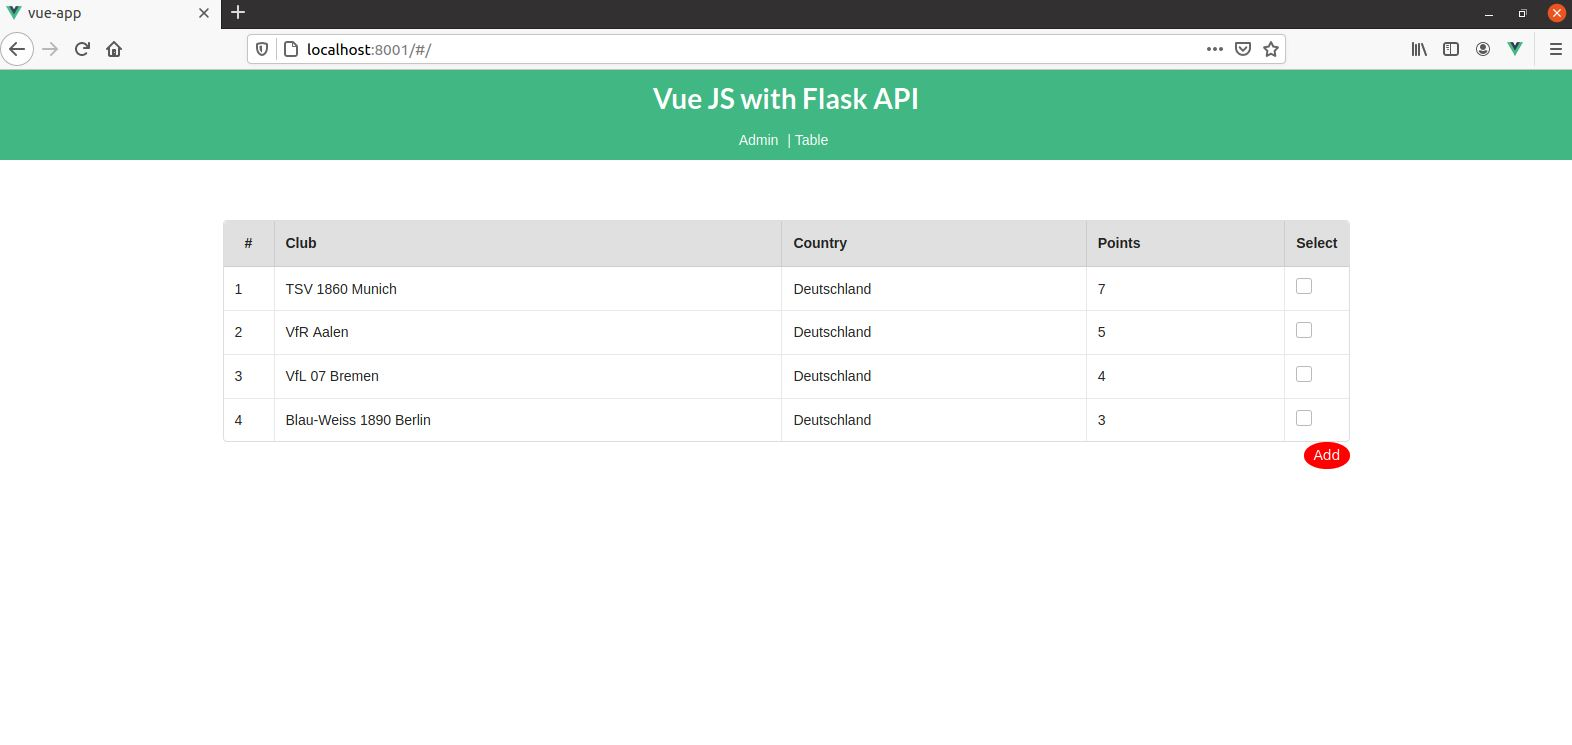
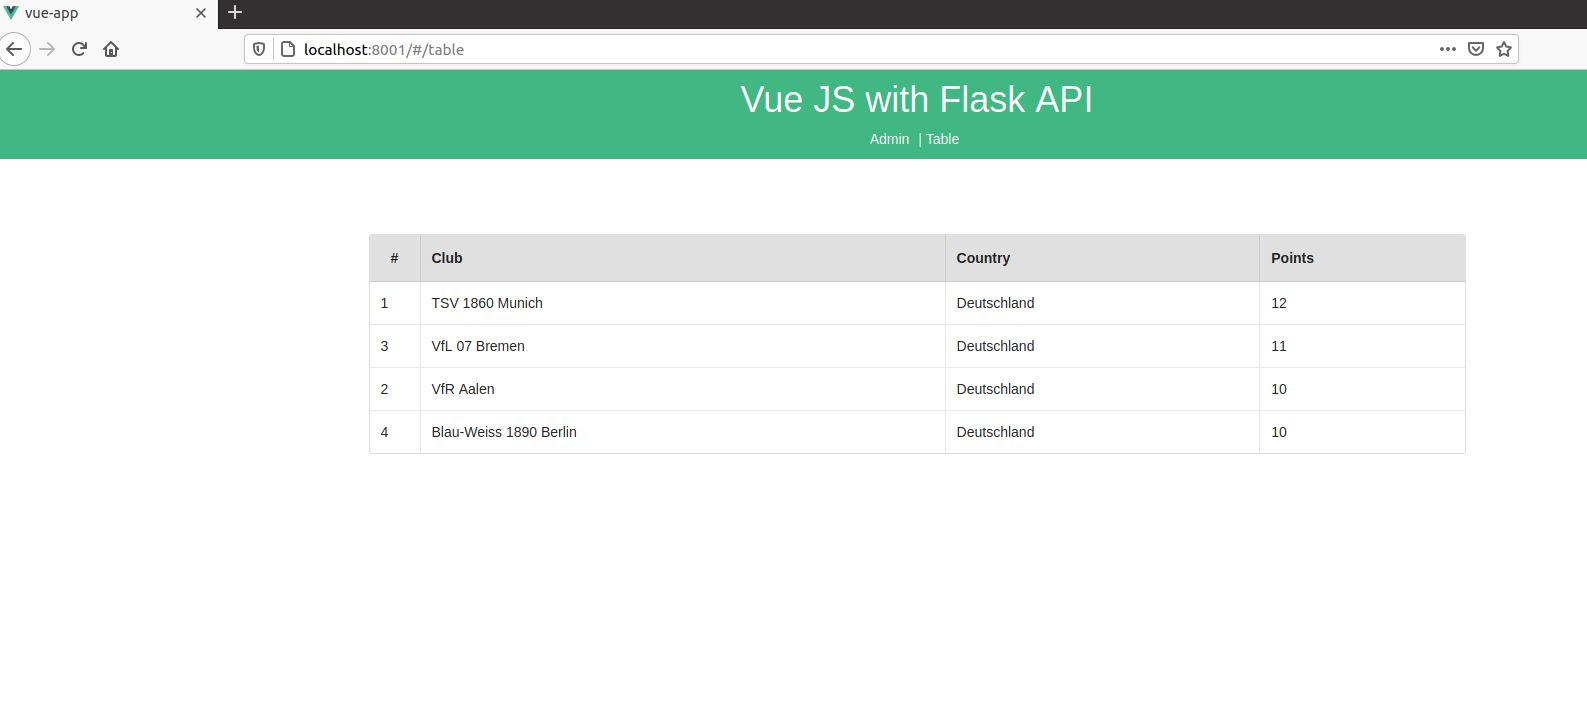
Select and add

diff --git a/vue-app/src/views/Admin.vue b/vue-app/src/views/Admin.vue
@@ -1,33 +1,173 @@
 <template>
   <div class="ui main container">
-      <div class="customer-list">
-        <FootballList v-for="club in clubs" :key="club.id" :club="club" />
-      </div>
+
+    <modal v-if="showModal"> 
+      <h3 slot="header" class="modal-title" style="text-align: center;">
+        Mark the winner
+      </h3>
       
+      <div slot="body">
+        <table class="ui celled table">
+        <thead>
+          <tr>
+            <th style="text-align: center;">Club</th>
+            <th>Winner</th>
+          </tr>
+        </thead>
+
+        <tbody>
+         
+            <tr v-for="rows in winner" :key="rows.value"> 
+            <td style="text-align: center;">{{rows.club}}</td>  
+            <td>
+                <label>
+                  <input type="checkbox" v-model="winnerSelect" :value="rows.id" :disabled="winnerSelect.length > 0 && winner.indexOf(rows.value) === -1" number
+                  @change="checkWinner(rows.id)"  > 
+
+                </label>
+            </td>
+          </tr>
+        </tbody>
+      </table>
+    
+      </div>
+
+      <div slot="footer">
+      <button type="button" class="btn btn-outline-info" @click="closeModal()"> Close </button>
+      <button type="button" class="btn btn-primary" data-dismiss="modal" @click="submitAndClose()">
+        Submit
+      </button>
+      </div>
+    </modal>
+     <FlashMessage></FlashMessage>
+      <div class="customer-list">
+      <table class="ui celled table">
+        <thead>
+          <tr>
+            <th style="width: 50px; text-align: center;">#</th>
+            <th style="text-align: center;">Name of the Club</th>
+            <th>Choose</th>
+          </tr>
+        </thead>
+
+        <tbody>
+
+          <tr v-for="(item,index) in clubs.clubs" :key="`item-${index}`">
+            <th scope="row"> {{ item.id}}</th>  
+            <td style="text-align: center;">{{ item.club}}</td>  
+            <td><label>
+                <input type="checkbox" v-model="selected" :value="item" @change="checkSelection()"> 
+            </label></td>
+          </tr>
+        </tbody>
+      </table>
+      </div>
     </div>
 </template>
 
 <script>
 
-import FootballList from '@/components/FootballList.vue';
+
+import Modal from '@/components/Modal.vue';
 import axios from 'axios'
 
 export default {
   name: 'App',
   components: { 
-    FootballList
+    Modal
   },
   data(){
     return {
-      clubs:[{
-      }]
+      clubs:[{}],
+      selected: [],
+      winner:[],
+      winnerSelect:[],
+      showModal: false 
     }
+  },
+  
+  methods: {
+    
+    checkWinner:function(id){
+      this.setWinner(id);
+    },
+    checkSelection: function() {
+      
+      //only when the second item is checked
+      if(this.selected.length == 2)
+      {
+        this.addNew();
+        this.openModal();  
+      }
+    },
+    addNew: function () {
+      var result=[];
+      this.selected.forEach(function (arrayItem) {
+                      result.push({id: arrayItem.id, club: arrayItem.club, point:1});
+                    
+          });
+        this.winner = result;
+    },
+    setWinner(id){
+      this.winner.forEach(function(array)
+          {
+            if (id == array.id)
+              array.point = 3;
+            else
+              array.point = 0;
+          }
+      );
+    },
+    setEquals(){
+      this.winner.forEach(function(array) { array.point = 1;});
+    },
+    openModal() { 
+        this.showModal = true; 
+        this.setEquals();
+    },
+    closeModal() {
+        this.showModal = false;
+        this.winner=[];
+        this.selected=[];
+        this.winnerSelect=[];
+      },
+      //create a Json Objects as API is waiting
+    convertObject(){
+      var obj={}
+      this.winner.forEach(function (array,i){
+        i=i+1;
+        obj["id"+i]=array.id;
+        obj["point"+i]=array.point;
+      });
+      return obj;
+    },
+
+    submitAndClose() {
+      
+      this.addClubsPoints(this.convertObject());
+    },
+    getClubs(){
+      axios.get('http://localhost:8000/clubs')
+    .then(res => this.clubs = res.data)
+    .catch(err => console.log(err));
+    },
+    //add points to Clubs
+    addClubsPoints(obj){
+       axios.post('http://localhost:8000/clubs',obj)
+      .then(() => {
+          this.closeModal();
+          this.flashMessage.success({title: 'Success',message: 'The points have been added!'});
+          this.getClubs();
+        })
+        .catch((error) => {
+          this.flashMessage.error({ title: 'Error',message: error});
+          console.log(error);
+        });
+    },
 
   },
   created(){
-    axios.get('http://localhost:8000/clubs')
-    .then(res => this.clubs = res.data)
-    .catch(err => console.log(err));
+    this.getClubs();
   } 
 
 }
@@ -53,13 +193,4 @@ thead tr th {
 .ui.inverted.dimmer {
   background-color: rgba(255, 255, 255, 0) !important;
 }
-.add {
-    background: #ff0000;
-    color: #fff;
-    border: none;
-    padding: 5px 9px;
-    border-radius: 50%;
-    cursor: pointer;
-    float: right;
-  }
 </style>

diff --git a/vue-app/src/views/Table.vue b/vue-app/src/views/Table.vue
@@ -1,65 +1,7 @@
 <template>
   <div class="ui main container">
-
-    <modal v-if="showModal"> 
-      <h3 slot="header" class="modal-title" style="text-align: center;">
-        Mark the winner
-      </h3>
-      
-      <div slot="body">
-        <table class="ui celled table">
-        <thead>
-          <tr>
-            <th style="text-align: center;">Club</th>
-            <th>Winner</th>
-          </tr>
-        </thead>
-
-        <tbody>
-          <tr v-for="(item,index) in winner" :key="`item-${index}`"> 
-            <td style="text-align: center;">{{ item.club}}</td>  
-            <td>
-                <label>
-                  <input type="checkbox" v-model="winner" :disabled="winner.length > 1 && winner.indexOf(item) === -1" 
-                  number> <!-- Item {{ index }} -- {{ winner.indexOf(item) }} --> 
-                </label>
-            </td>
-          </tr>
-        </tbody>
-      </table>
-    
-      </div>
-
-      <div slot="footer">
-      <button type="button" class="btn btn-outline-info" @click="closeModal()"> Close </button>
-      <button type="button" class="btn btn-primary" data-dismiss="modal" @click="submitAndClose()">
-        Submit
-      </button>
-      </div>
-    </modal>
-
-
       <div class="customer-list">
-      <table class="ui celled table">
-        <thead>
-          <tr>
-            <th style="width: 50px; text-align: center;">#</th>
-            <th style="text-align: center;">Name of the Club</th>
-            <th>Choose</th>
-          </tr>
-        </thead>
-
-        <tbody>
-
-          <tr v-for="(item,index) in clubs.clubs" :key="`item-${index}`">
-            <th scope="row"> {{ item.id}}</th>  
-            <td style="text-align: center;">{{ item.club}}</td>  
-            <td><label>
-                <input type="checkbox" v-model="selected" :value="item" @change="check()"> 
-            </label></td>
-          </tr>
-        </tbody>
-      </table>
+        <FootballList v-for="club in clubs" :key="club.id" :club="club" />
       </div>
       
     </div>
@@ -67,92 +9,26 @@
 
 <script>
 
-
-import Modal from '@/components/Modal.vue';
+import FootballList from '@/components/FootballList.vue';
 import axios from 'axios'
 
 export default {
   name: 'App',
   components: { 
-    Modal
+    FootballList
   },
   data(){
     return {
-      clubs:[{}],
-      selected: [],
-      winner:[],
-      showModal: false 
+      clubs:[{
+      }]
     }
+
   },
-  
-  computed :{     
-       
-  },
-  methods: {
-    
-    check: function() {
-
-      //only when the second item is checked
-      if(this.selected.length == 2)
-      {
-        this.addNew(this.selected);
-        this.openModal();  
-      }
-    },
-    addNew: function (item) {
-
-      let result=[];
-      item.forEach(function (arrayItem) {
-                     const item={   
-                        id: arrayItem.id,
-                        club: arrayItem.club,
-                        point:1}
-                     result.push(item);
-          });
-          //
-          this.winner.push(result[0]);
-          this.winner.push(result[1]);
-    },
-    openModal() { 
-        this.showModal = true; 
-    } ,
-    closeModal() {
-        this.showModal = false;
-        this.winner=[];
-      },
-    submitAndClose() {
-      var obj= { }
-      this.winner.forEach(function (array,i){
-        i=i+1;
-        obj["id"+i]=array.id;
-        obj["point"+i]=array.point;
-      });
-
-      this.addClubsPoints(obj);
-    },
-    getClubs(){
-      axios.get('http://localhost:8000/clubs')
+  //get the list of CLubs
+  created(){
+    axios.get('http://localhost:8000/clubs')
     .then(res => this.clubs = res.data)
     .catch(err => console.log(err));
-    },
-    addClubsPoints(obj){
-       axios.post('http://localhost:8000/clubs',obj)
-      .then(() => {
-          //Message of Sucessfull
-          //this.showModal = false;
-          //this.getClubs();
-          //console.log("Sucessful");
-        })
-        .catch((error) => {
-          // eslint-disable-next-line
-          console.log(error);
-          //this.getBooks();
-        });
-    },
-
-  },
-  created(){
-    this.getClubs();
   } 
 
 }
@@ -178,4 +54,13 @@ thead tr th {
 .ui.inverted.dimmer {
   background-color: rgba(255, 255, 255, 0) !important;
 }
+.add {
+    background: #ff0000;
+    color: #fff;
+    border: none;
+    padding: 5px 9px;
+    border-radius: 50%;
+    cursor: pointer;
+    float: right;
+  }
 </style>

diff --git a/vue-app/src/main.js b/vue-app/src/main.js
@@ -2,6 +2,8 @@ import Vue from 'vue'
 import App from './App.vue'
 import router from './router'
 import store from './store'
+import FlashMessage from '@smartweb/vue-flash-message';
+Vue.use(FlashMessage);
 
 Vue.config.productionTip = false
 
